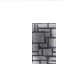
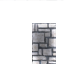
mooooarrrrr tilessss
git-svn-id: http://svn.net-core.org/repos/t-engine4@2322 51575b47-30f0-44d4-a5cc-537603b46e54

Changed region(s): [[0.5, 0.3438, 0.875, 1.0], [0.6562, 0.625, 0.6875, 0.6562]]

diff --git a/src/map.c b/src/map.c
@@ -688,11 +688,11 @@ static int map_set_scroll(lua_State *L)
 }
 
 
-inline void display_map_quad(map_type *map, int dx, int dy, float dz, map_object *m, int i, int j, float a, bool obscure, int nb_keyframes) ALWAYS_INLINE;
-void display_map_quad(map_type *map, int dx, int dy, float dz, map_object *m, int i, int j, float a, bool obscure, int nb_keyframes)
+inline void display_map_quad(map_type *map, int dx, int dy, float dz, map_object *m, int i, int j, float a, float seen, int nb_keyframes) ALWAYS_INLINE;
+void display_map_quad(map_type *map, int dx, int dy, float dz, map_object *m, int i, int j, float a, float seen, int nb_keyframes)
 {
 	float r, g, b;
-	if (!obscure)
+	if (seen)
 	{
 		if (m->tint_r < 1 || m->tint_g < 1 || m->tint_b < 1)
 		{
@@ -702,6 +702,9 @@ void display_map_quad(map_type *map, int dx, int dy, float dz, map_object *m, in
 		{
 			r = map->shown_r; g = map->shown_g; b = map->shown_b;
 		}
+		r *= seen;
+		g *= seen;
+		b *= seen;
 	}
 	else
 	{
@@ -751,7 +754,7 @@ void display_map_quad(map_type *map, int dx, int dy, float dz, map_object *m, in
 						animdx = map->tile_w * (adx * step / (float)m->move_max - adx);
 						animdy = map->tile_h * (ady * step / (float)m->move_max - ady);
 						tglColor4f(r, g, b, a * 2 / (3 + z));
-						DO_QUAD(dx + m->dx + animdx, dy + m->dy + animdy, 0, m->scale);
+						DO_QUAD(dx + m->dx * map->tile_w + animdx, dy + m->dy * map->tile_h + animdy, 0, m->scale);
 					}
 				}
 			}
@@ -764,7 +767,7 @@ void display_map_quad(map_type *map, int dx, int dy, float dz, map_object *m, in
 
 	// Final display
 	tglColor4f(r, g, b, a);
-	DO_QUAD(dx + m->dx + animdx, dy + m->dy + animdy, 0, m->scale);
+	DO_QUAD(dx + m->dx * map->tile_w + animdx, dy + m->dy * map->tile_h + animdy, 0, m->scale);
 
 	// Unbind any shaders
 	if (m->shader) glUseProgramObjectARB(0);
@@ -785,9 +788,9 @@ static int map_to_screen(lua_State *L)
 
 	for (z = 0; z < map->zdepth; z++)
 	{
-		for (i = map->mx; i < map->mx + map->mwidth; i++)
+		for (j = map->my; j < map->my + map->mheight; j++)
 		{
-			for (j = map->my; j < map->my + map->mheight; j++)
+			for (i = map->mx; i < map->mx + map->mwidth; i++)
 			{
 				if ((i < 0) || (j < 0) || (i >= map->w) || (j >= map->h)) continue;
 
@@ -800,11 +803,11 @@ static int map_to_screen(lua_State *L)
 				{
 					if (map->grids_seens[i][j])
 					{
-						display_map_quad(map, dx, dy, z, mo, i, j, map->shown_a * map->grids_seens[i][j], FALSE, nb_keyframes);
+						display_map_quad(map, dx, dy, z, mo, i, j, map->shown_a, map->grids_seens[i][j], nb_keyframes);
 					}
 					else
 					{
-						display_map_quad(map, dx, dy, z, mo, i, j, map->obscure_a, TRUE, nb_keyframes);
+						display_map_quad(map, dx, dy, z, mo, i, j, map->obscure_a, 0, nb_keyframes);
 					}
 				}
 			}
